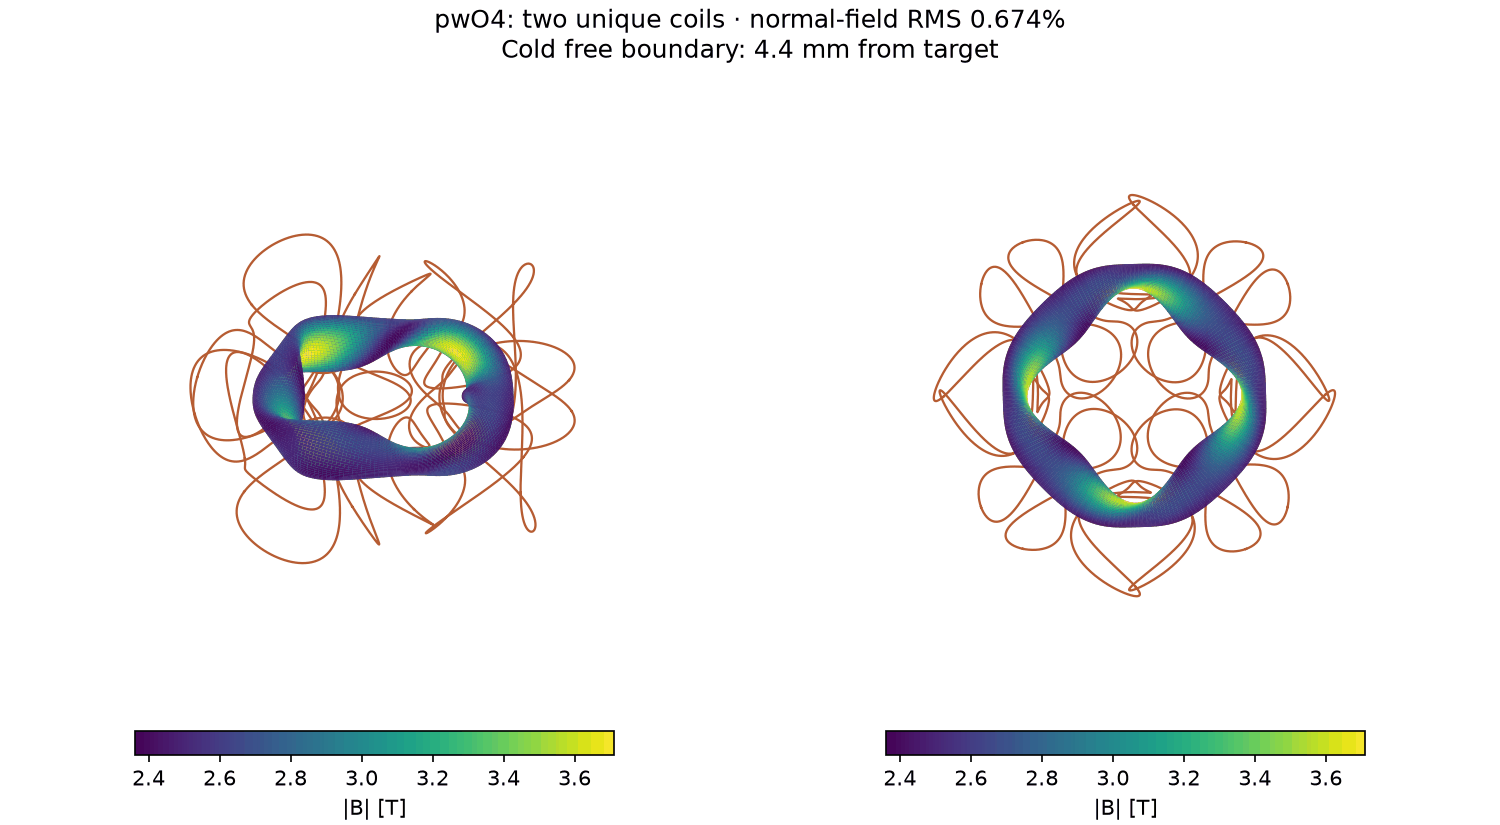
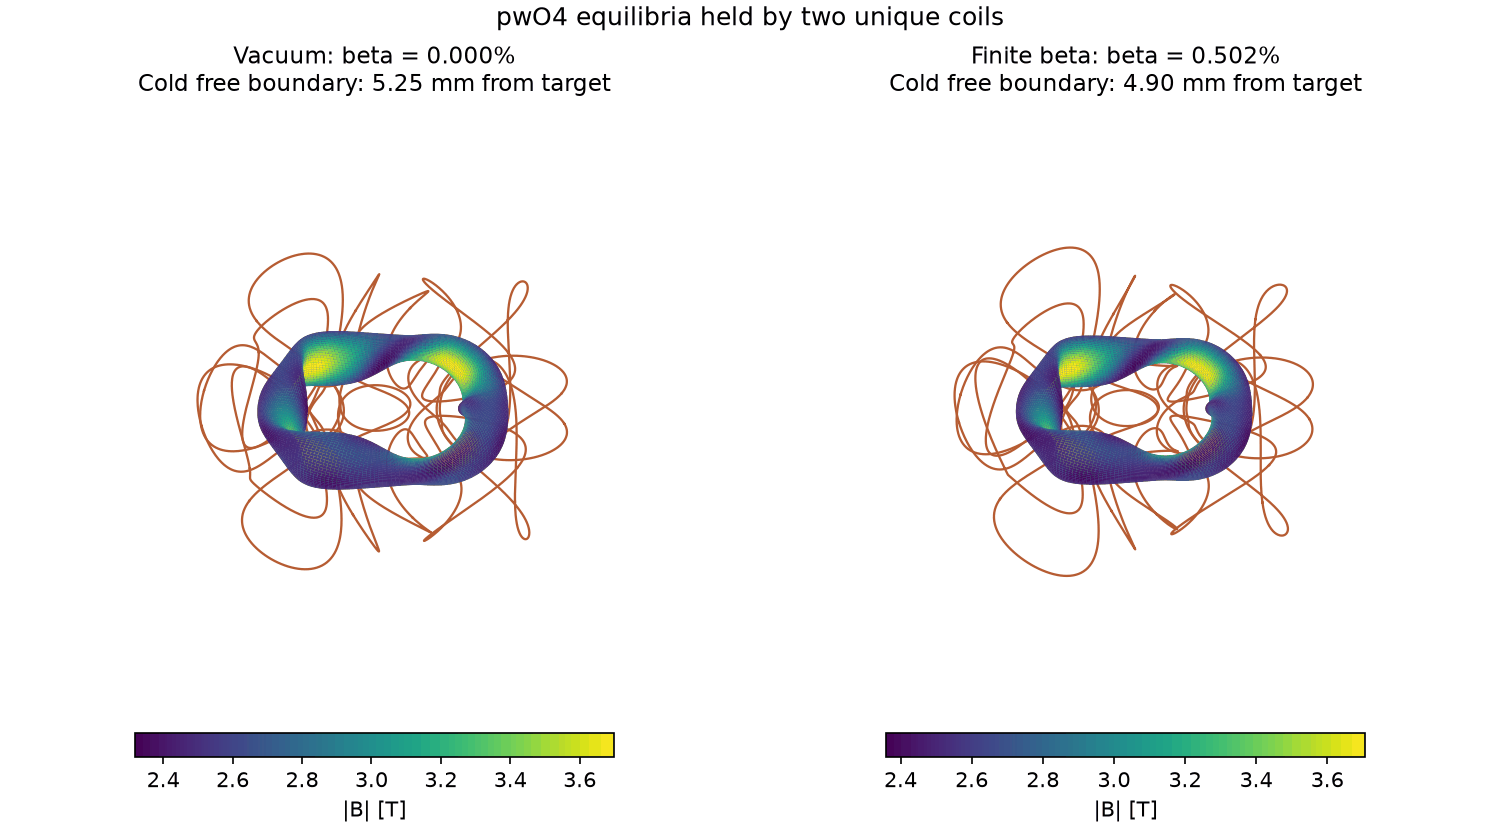
Show vacuum and finite-beta coils with their measured transport limits

diff --git a/docs/_static/figures/sources/make_low_transport_figure.py b/docs/_static/figures/sources/make_low_transport_figure.py
@@ -207,21 +207,27 @@ def coil_figure(root):
     """Render the accepted ESSOS coil set and its fixed-boundary target."""
     from essos.coils import Coils
 
-    coils = Coils.from_json(str(root.parent / "stage2/a6-relaxed/n2_L7_w100/coils.json"))
-    coils.n_segments = 384
-    curves = np.asarray(coils.gamma)
-    z = boundary_data(root.parent / "mapped/mirror-nfp4/low_transport/wout_trial.nc")
     fig = plt.figure(figsize=(10, 5.5), dpi=150, layout="constrained")
-    for index, (elevation, azimuth) in enumerate(((35, -45), (90, 0)), 1):
+    for index, (name, label) in enumerate((("public-warm-nfp4-final", "Vacuum"),
+                                         ("public-warm-finite-tight", "Finite beta")), 1):
+        folder = root.parent / "stage2" / name
+        record = json.loads((folder / "single_stage_optimization_pwO_summary.json").read_text())
+        free = record["free_boundary_verification"]
+        coils = Coils.from_json(str(folder / "coils_single_stage_pwO_optimized.json"))
+        coils.n_segments = 384
+        curves = np.asarray(coils.gamma)
+        z = boundary_data(folder / "wout_single_stage_pwO_free_check.nc")
         ax = fig.add_subplot(1, 2, index, projection="3d")
         draw_boundary(fig, ax, z)
         for curve in curves:
             curve = np.concatenate((curve, curve[:1]))
             ax.plot(*curve.T, color="#b65c32", lw=1.1)
         ax.set_box_aspect(np.ptp(curves.reshape(-1, 3), axis=0))
-        ax.view_init(elev=elevation, azim=azimuth)
+        ax.view_init(elev=35, azim=-45)
         ax.set_axis_off()
-    fig.suptitle("pwO4: two unique coils · normal-field RMS 0.674%\nCold free boundary: 4.4 mm from target", fontsize=12)
+        ax.set_title(f"{label}: beta = {100*free['beta']:.3f}%\n"
+                     f"Cold free boundary: {1000*free['sampled_boundary_distance_m']:.2f} mm from target")
+    fig.suptitle("pwO4 equilibria held by two unique coils", fontsize=12)
     save(fig, OUT.with_name("readme_low_transport_coils.webp"))
 
 

diff --git a/README.md b/README.md
@@ -319,9 +319,11 @@ Examples: [vacuum](examples/optimization/pwO_optimization.py),
 
 ![Four-period pwO boundary colored by magnetic-field strength and fitted coils](docs/_static/figures/readme_low_transport_coils.webp)
 
-Two unique coils reproduce the four-period vacuum boundary with 0.674% normal-field
-RMS error; a cold free-boundary solve stays within 4.4 mm of the target.
-The two-period finite-beta coil fit still misses its field-error limits and stops before joint optimization.
+Joint vacuum optimization lowers the objective by 9.0%; the coils retain a 14.6%
+mean-Q reduction from the near-circle seed. The cold free boundary is 5.25 mm
+from the target. At β≈0.5%, the fit reaches 0.592% normal-field RMS error and
+4.90 mm displacement. Its mean Q improves 7.5%, with a 2.3% inner-radius increase
+that fails the strict transport screen.
 
 ### Free boundary with coils
 

diff --git a/docs/explanation/confinement.rst b/docs/explanation/confinement.rst
@@ -277,8 +277,10 @@ transform and mirror controls. Independently refined mean
 a separate paired 256-alpha experiment reduces weighted 10 ms loss from
 100% to 6.73% at one launch surface, at common volume-RMS field and minor radius.
 These are measurements of the combined objective, not a bound from mapped
-variance to Q or losses. A three-period trial lowered the proxy but worsened Q;
-independent transport checks remain essential. The README shows the retained
+variance to Q or losses. QA preconditioning does not remove this limitation:
+five NFP3 pwO steps lowered the variance by 26%, but mean Q rose from
+3.41e-6 to 2.97e-3, above the near-circle value 5.02e-4. Independent
+transport checks remain essential. The README shows the retained
 boundary, unfilled Boozer contours and measured loss curves.
 
 Bounce action
